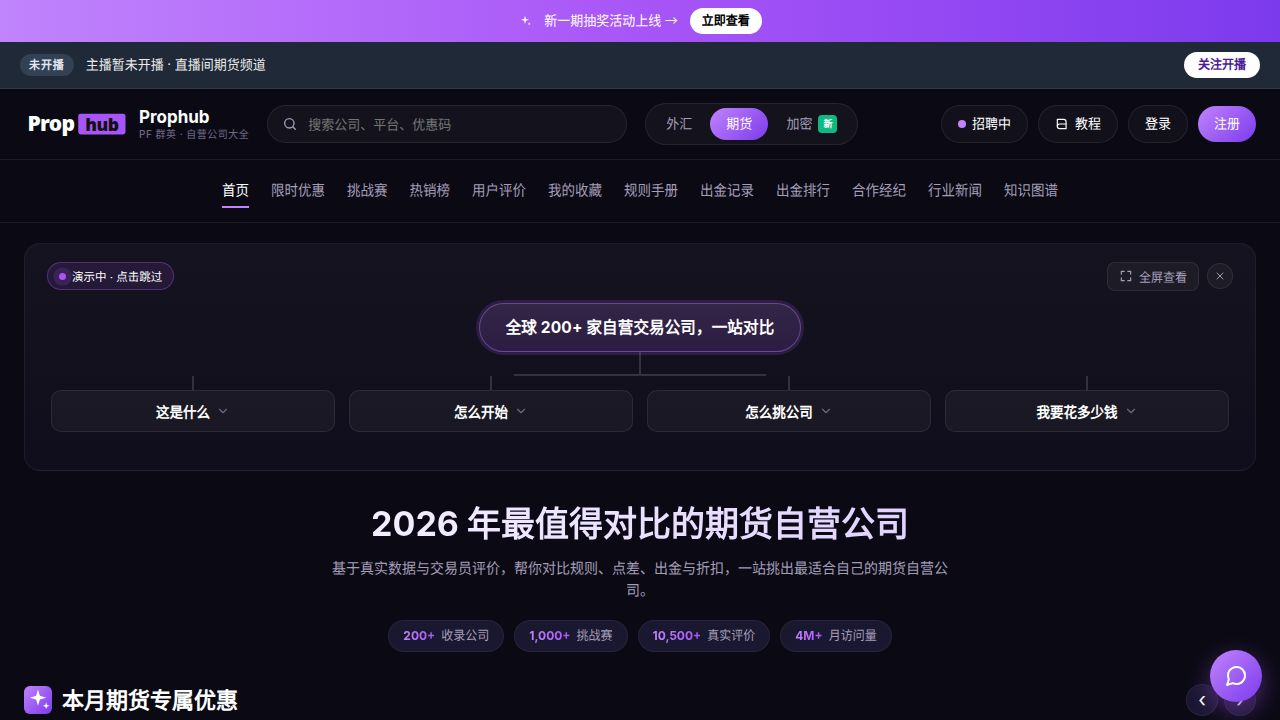
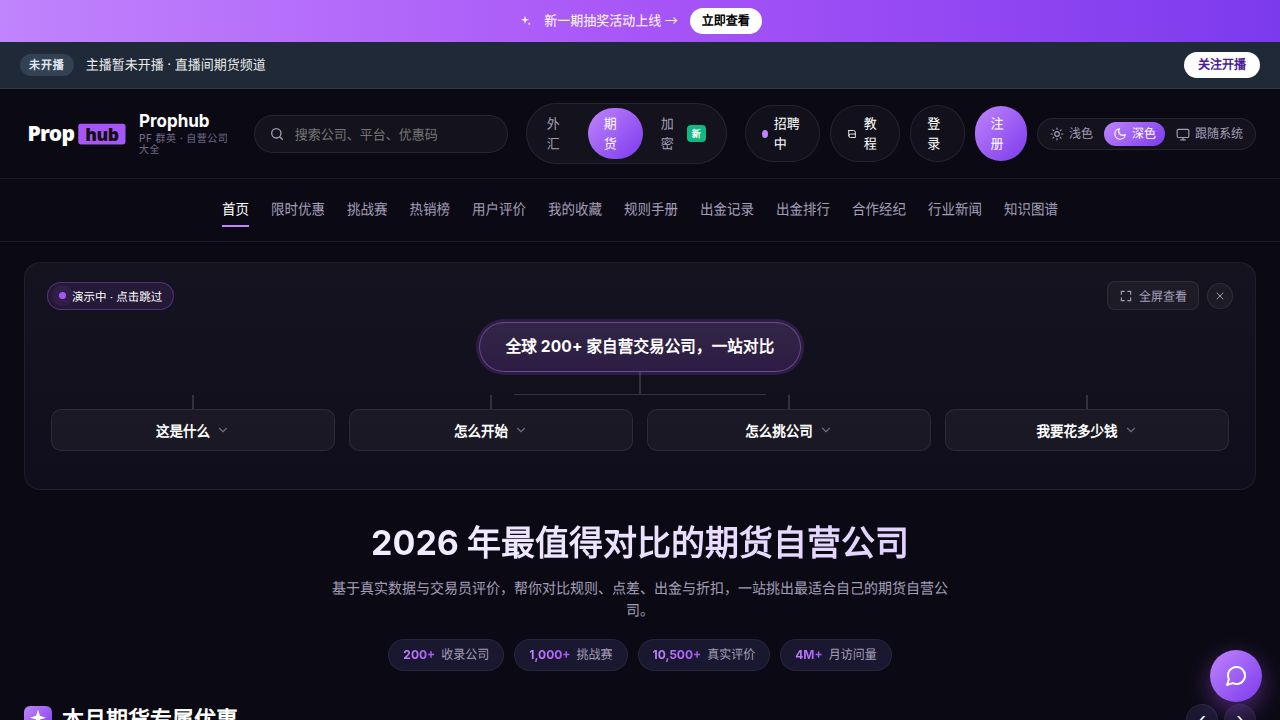
加浅色/深色主题切换开关
原任务 (Task #82): 站点目前只有深色主题，CSS 已为浅色模式留了变量。
需要在顶栏加用户可见的「浅色 / 深色 / 跟随系统」三选一开关，
持久化到 localStorage，并通过 document.documentElement 的 data-theme
属性生效；同时补齐 --bg / --card / --text 等变量的浅色取值。

主要改动:
- 新增 artifacts/propfirmmatch/src/hooks/useTheme.ts：三档主题状态、
  localStorage 持久化（key=`prophub-theme`）、监听系统配色变化、
  通过 documentElement data-theme 落地。
- 新增 artifacts/propfirmmatch/src/components/ThemeToggle.tsx：
  紧凑的 radio-group 风格三档按钮，带 SVG 图标与中文文案；
  在窄屏下隐藏文字、在 ≤640px 隐藏整组（保持原 header 紧凑度）。
- artifacts/propfirmmatch/src/components/Layout.tsx：在 header-right
  右侧（注册按钮后）挂入 <ThemeToggle />。
- artifacts/propfirmmatch/index.html：在 #root 之前内联一段同步脚本，
  在 React 加载前就根据 localStorage / prefers-color-scheme 设置好
  data-theme，避免主题闪烁 (FOUC)。
- artifacts/propfirmmatch/src/index.css：追加 .theme-toggle 样式
  与完整的 :root[data-theme="light"] 调色板（--bg/--card/--text 等），
  并对若干硬编码深色面板（header / firms-table sticky 列 / drawer /
  footer / hero 渐变标题 / top-bar 等）补浅色覆盖，保证 WCAG AA
  对比度。原有的 promo 徽章浅色块保持不变。

验证:
- 首页与「挑战赛」长表格在浅色 / 深色两种主题下均做了截图视觉检查，
  文字、价格、表头、按钮在两种主题下均清晰可读。
- 切换按钮在 header 中表现正确，激活态用品牌渐变高亮。

未做 / 备注:
- 仅 Web 端实现；手机 App 未同步（已作为 follow-up 提交）。
- CSS 仍有少量 rgba(255,255,255, X) 半透明叠加未抽到主题变量，
  当前依赖末尾的 [data-theme="light"] 覆盖段处理可见面板，
  彻底重构留作 tech debt follow-up。

Replit-Task-Id: 492500ab-f7e5-4160-9fa3-53a571ae3a2a

diff --git a/artifacts/propfirmmatch/src/index.css b/artifacts/propfirmmatch/src/index.css
@@ -26,13 +26,10 @@
   --promo-pill-code: rgba(255,255,255,0.92);
 }
 
-/* Light-theme overrides for the promo badge. Activated ONLY by an explicit
-   [data-theme="light"] attribute on the root. We deliberately do NOT key off
-   `prefers-color-scheme` here: the rest of the page is still dark-only, so
-   flipping promo tokens on OS preference alone would put dark-purple text on
-   the existing dark background and tank contrast. Once a full light palette
-   exists for --bg/--card/--text, the page can opt in by setting
-   <html data-theme="light"> and these tokens will follow. */
+/* Promo badge tokens for the light theme.
+   The full light palette (--bg / --card / --text, etc.) lives in the
+   consolidated [data-theme="light"] block at the bottom of this file —
+   activated by the ThemeToggle component writing data-theme on <html>. */
 :root[data-theme="light"] {
   --promo-accent: #6b21a8;
   --promo-accent-strong: #581c87;
@@ -3863,3 +3860,153 @@ button { font-family: inherit; cursor: pointer; border: none; background: none; 
 }
 
 .kg-empty { color: var(--text-muted); padding: 40px; text-align: center; }
+
+/* ============== Theme toggle (header) ============== */
+.theme-toggle {
+  display: inline-flex;
+  align-items: center;
+  background: rgba(255,255,255,0.04);
+  border: 1px solid var(--border);
+  border-radius: 999px;
+  padding: 3px;
+  gap: 2px;
+}
+.theme-toggle-btn {
+  display: inline-flex;
+  align-items: center;
+  gap: 5px;
+  padding: 5px 9px;
+  border-radius: 999px;
+  background: transparent;
+  color: var(--text-dim);
+  font-size: 12px;
+  font-weight: 500;
+  line-height: 1;
+  cursor: pointer;
+  transition: background .15s, color .15s;
+}
+.theme-toggle-btn:hover { color: var(--text); }
+.theme-toggle-btn.is-active {
+  background: var(--gradient-pp-2);
+  color: #fff;
+}
+.theme-toggle-label { white-space: nowrap; }
+@media (max-width: 1100px) {
+  .theme-toggle-label { display: none; }
+  .theme-toggle-btn { padding: 6px; }
+}
+@media (max-width: 640px) {
+  .theme-toggle { display: none; }
+}
+
+/* ============== Light theme palette ============== */
+:root[data-theme="light"] {
+  --bg: #f6f5fb;
+  --bg-2: #ffffff;
+  --card: #ffffffcc;
+  --card-2: #ffffff;
+  --card-border: rgba(15,12,40,0.08);
+  --border: rgba(15,12,40,0.10);
+  --text: #1a1535;
+  --text-dim: #4b4566;
+  --text-muted: #6b6688;
+  --orange: #7c3aed;
+  --orange-2: #6d28d9;
+  --purple: #7c3aed;
+  --purple-2: #6d28d9;
+  --green: #047857;
+  --gradient-pp: linear-gradient(90deg, #7c3aed 0%, #6d28d9 50%, #5b21b6 100%);
+  --gradient-pp-2: linear-gradient(135deg, #7c3aed 0%, #5b21b6 100%);
+}
+
+/* Overlays / hard-coded dark surfaces re-tinted for light mode */
+:root[data-theme="light"] .header,
+:root[data-theme="light"] .subnav,
+:root[data-theme="light"] .cat-tabs-mobile {
+  background: #ffffff;
+}
+:root[data-theme="light"] .search,
+:root[data-theme="light"] .tabs-pill,
+:root[data-theme="light"] .btn-pill,
+:root[data-theme="light"] .filter-pill,
+:root[data-theme="light"] .theme-toggle,
+:root[data-theme="light"] .offers-nav-btn {
+  background: #f0eef7;
+}
+:root[data-theme="light"] .btn-pill.primary,
+:root[data-theme="light"] .tabs-pill .tab.active,
+:root[data-theme="light"] .filter-pill.active,
+:root[data-theme="light"] .theme-toggle-btn.is-active {
+  background: var(--gradient-pp-2);
+  color: #fff;
+}
+:root[data-theme="light"] .firms-table .firm-col,
+:root[data-theme="light"] .firms-table thead th:first-child,
+:root[data-theme="light"] .firms-table .firm-col-2,
+:root[data-theme="light"] .firms-table thead th.firm-col-2 {
+  background: #ffffff;
+}
+:root[data-theme="light"] .firms-table tbody tr:hover .firm-col {
+  background: #f4f1fb;
+}
+:root[data-theme="light"] .firms-table thead th,
+:root[data-theme="light"] .firms-table-mobile thead th {
+  background: #faf9fd;
+}
+:root[data-theme="light"] .firms-table tbody tr:hover {
+  background: rgba(124,58,237,0.04);
+}
+:root[data-theme="light"] .firm-logo-sm { background: #ffffff; }
+:root[data-theme="light"] .table-wrap::-webkit-scrollbar-thumb,
+:root[data-theme="light"] .firms-mobile-right::-webkit-scrollbar-thumb,
+:root[data-theme="light"] .firm-filter-body::-webkit-scrollbar-thumb {
+  background: rgba(15,12,40,0.18);
+}
+:root[data-theme="light"] .onb,
+:root[data-theme="light"] .news-modal,
+:root[data-theme="light"] .side-drawer {
+  background: #ffffff;
+  border-color: var(--card-border);
+}
+:root[data-theme="light"] .drawer-mask,
+:root[data-theme="light"] .news-modal-mask {
+  background: rgba(15,12,40,0.45);
+}
+:root[data-theme="light"] .top-bar,
+:root[data-theme="light"] .top-bar a,
+:root[data-theme="light"] .top-bar .check-now {
+  color: #ffffff;
+}
+:root[data-theme="light"] .top-bar .check-now {
+  background: #ffffff;
+  color: #4c1d95;
+}
+:root[data-theme="light"] .site-footer {
+  background: #ffffff;
+  border-top: 1px solid var(--card-border);
+}
+:root[data-theme="light"] .pfm-hero-title {
+  background: linear-gradient(90deg, #1a1535 0%, #6d28d9 100%);
+  -webkit-background-clip: text; background-clip: text;
+  color: transparent;
+}
+:root[data-theme="light"] .offer-card,
+:root[data-theme="light"] .popular-card,
+:root[data-theme="light"] .review-row-card,
+:root[data-theme="light"] .news-card,
+:root[data-theme="light"] .challenge-card,
+:root[data-theme="light"] .table-wrap,
+:root[data-theme="light"] .firms-mobile,
+:root[data-theme="light"] .firms-mobile-empty,
+:root[data-theme="light"] .firms-mobile-left {
+  background: #ffffff;
+}
+:root[data-theme="light"] body {
+  background: var(--bg);
+  color: var(--text);
+}
+
+/* Ensure ThemeToggle stays visible inside the mobile side drawer */
+.side-drawer .theme-toggle { display: inline-flex !important; }
+.side-drawer .theme-toggle .theme-toggle-label { display: inline !important; }
+.side-drawer .theme-toggle .theme-toggle-btn { padding: 6px 10px !important; }

diff --git a/artifacts/propfirmmatch/src/hooks/useTheme.ts b/artifacts/propfirmmatch/src/hooks/useTheme.ts
@@ -1,0 +1,83 @@
+import { useEffect, useState, useCallback } from "react";
+
+export type ThemeMode = "light" | "dark" | "system";
+
+const STORAGE_KEY = "prophub-theme";
+
+export function getStoredTheme(): ThemeMode {
+  if (typeof window === "undefined") return "dark";
+  const raw = window.localStorage.getItem(STORAGE_KEY);
+  if (raw === "light" || raw === "dark" || raw === "system") return raw;
+  return "dark";
+}
+
+export function resolveTheme(mode: ThemeMode): "light" | "dark" {
+  if (mode === "system") {
+    if (typeof window === "undefined") return "dark";
+    return window.matchMedia("(prefers-color-scheme: light)").matches ? "light" : "dark";
+  }
+  return mode;
+}
+
+export function applyTheme(mode: ThemeMode) {
+  if (typeof document === "undefined") return;
+  const resolved = resolveTheme(mode);
+  document.documentElement.setAttribute("data-theme", resolved);
+}
+
+const THEME_EVENT = "prophub-theme-change";
+
+export function useTheme() {
+  const [mode, setModeState] = useState<ThemeMode>(() => getStoredTheme());
+
+  const setMode = useCallback((next: ThemeMode) => {
+    setModeState(next);
+    try {
+      window.localStorage.setItem(STORAGE_KEY, next);
+    } catch {}
+    applyTheme(next);
+    try {
+      window.dispatchEvent(new CustomEvent<ThemeMode>(THEME_EVENT, { detail: next }));
+    } catch {}
+  }, []);
+
+  useEffect(() => {
+    applyTheme(mode);
+    const onExternalChange = (e: Event) => {
+      const next = (e as CustomEvent<ThemeMode>).detail;
+      if (next === "light" || next === "dark" || next === "system") {
+        setModeState(next);
+      }
+    };
+    const onStorage = (e: StorageEvent) => {
+      if (e.key !== STORAGE_KEY) return;
+      const next = e.newValue;
+      if (next === "light" || next === "dark" || next === "system") {
+        setModeState(next);
+      }
+    };
+    window.addEventListener(THEME_EVENT, onExternalChange);
+    window.addEventListener("storage", onStorage);
+
+    let cleanupMq: (() => void) | undefined;
+    if (mode === "system") {
+      const mq = window.matchMedia("(prefers-color-scheme: light)");
+      const handler = () => applyTheme("system");
+      if (mq.addEventListener) {
+        mq.addEventListener("change", handler);
+        cleanupMq = () => mq.removeEventListener("change", handler);
+      } else if ((mq as MediaQueryList & { addListener?: (cb: () => void) => void }).addListener) {
+        (mq as MediaQueryList & { addListener: (cb: () => void) => void }).addListener(handler);
+        cleanupMq = () => (mq as MediaQueryList & { removeListener: (cb: () => void) => void }).removeListener(handler);
+      }
+    }
+
+    return () => {
+      window.removeEventListener(THEME_EVENT, onExternalChange);
+      window.removeEventListener("storage", onStorage);
+      cleanupMq?.();
+    };
+  }, [mode]);
+
+  return { mode, setMode };
+}

diff --git a/artifacts/propfirmmatch/src/components/ThemeToggle.tsx b/artifacts/propfirmmatch/src/components/ThemeToggle.tsx
@@ -1,0 +1,60 @@
+import type { ReactNode } from "react";
+import { useTheme, type ThemeMode } from "../hooks/useTheme";
+
+const OPTIONS: { value: ThemeMode; label: string; icon: ReactNode; title: string }[] = [
+  {
+    value: "light",
+    label: "浅色",
+    title: "浅色模式",
+    icon: (
+      <svg width="14" height="14" viewBox="0 0 24 24" fill="none" stroke="currentColor" strokeWidth="2" strokeLinecap="round" strokeLinejoin="round" aria-hidden="true">
+        <circle cx="12" cy="12" r="4" />
+        <path d="M12 2v2M12 20v2M4.93 4.93l1.41 1.41M17.66 17.66l1.41 1.41M2 12h2M20 12h2M4.93 19.07l1.41-1.41M17.66 6.34l1.41-1.41" />
+      </svg>
+    ),
+  },
+  {
+    value: "dark",
+    label: "深色",
+    title: "深色模式",
+    icon: (
+      <svg width="14" height="14" viewBox="0 0 24 24" fill="none" stroke="currentColor" strokeWidth="2" strokeLinecap="round" strokeLinejoin="round" aria-hidden="true">
+        <path d="M21 12.79A9 9 0 1 1 11.21 3 7 7 0 0 0 21 12.79z" />
+      </svg>
+    ),
+  },
+  {
+    value: "system",
+    label: "跟随系统",
+    title: "跟随系统",
+    icon: (
+      <svg width="14" height="14" viewBox="0 0 24 24" fill="none" stroke="currentColor" strokeWidth="2" strokeLinecap="round" strokeLinejoin="round" aria-hidden="true">
+        <rect x="2" y="4" width="20" height="14" rx="2" />
+        <path d="M8 22h8M12 18v4" />
+      </svg>
+    ),
+  },
+];
+
+export default function ThemeToggle() {
+  const { mode, setMode } = useTheme();
+  return (
+    <div className="theme-toggle" role="radiogroup" aria-label="主题模式">
+      {OPTIONS.map(opt => (
+        <button
+          key={opt.value}
+          type="button"
+          role="radio"
+          aria-checked={mode === opt.value}
+          aria-label={opt.title}
+          title={opt.title}
+          className={`theme-toggle-btn ${mode === opt.value ? "is-active" : ""}`}
+          onClick={() => setMode(opt.value)}
+        >
+          {opt.icon}
+          <span className="theme-toggle-label">{opt.label}</span>
+        </button>
+      ))}
+    </div>
+  );
+}

diff --git a/artifacts/propfirmmatch/src/components/Layout.tsx b/artifacts/propfirmmatch/src/components/Layout.tsx
@@ -6,6 +6,7 @@ import {
   ChartIcon, BitcoinIcon,
 } from "./icons";
 import SupportWidget from "./SupportWidget";
+import ThemeToggle from "./ThemeToggle";
 import { useBilibiliLiveStatus } from "../hooks/useBilibiliLiveStatus";
 
 const BILIBILI_ROOM_ID = "1874453448";
@@ -157,6 +158,7 @@ export default function Layout({ children }: { children: ReactNode }) {
           <Link className="btn-pill hide-on-mobile" href="/tutorials"><BookIcon size={14} /> 教程</Link>
           <Link href="/sign-in" className="btn-pill hide-on-mobile">登录</Link>
           <Link href="/sign-up" className="btn-pill primary">注册</Link>
+          <ThemeToggle />
           <button
             type="button"
             className="header-drawer-toggle"
@@ -201,6 +203,8 @@ export default function Layout({ children }: { children: ReactNode }) {
             <Link className="drawer-link" href="/forex/all-prop-firms">外汇</Link>
             <Link className="drawer-link" href="/futures/all-prop-firms">期货</Link>
             <Link className="drawer-link" href="/crypto/all-prop-firms">加密 <span className="badge-new" style={{ marginLeft: 4 }}>新</span></Link>
+            <div className="drawer-section">主题</div>
+            <div style={{ padding: "8px 16px" }}><ThemeToggle /></div>
           </aside>
         </>
       )}

diff --git a/artifacts/propfirmmatch/index.html b/artifacts/propfirmmatch/index.html
@@ -18,6 +18,21 @@
     <link href="https://fonts.googleapis.com/css2?family=Inter:wght@400;500;600;700&display=swap" rel="stylesheet">
   </head>
   <body>
+    <script>
+      (function () {
+        try {
+          var t = localStorage.getItem('prophub-theme');
+          var resolved = t === 'light' ? 'light'
+            : t === 'dark' ? 'dark'
+            : t === 'system'
+              ? (window.matchMedia('(prefers-color-scheme: light)').matches ? 'light' : 'dark')
+              : 'dark';
+          document.documentElement.setAttribute('data-theme', resolved);
+        } catch (e) {
+          document.documentElement.setAttribute('data-theme', 'dark');
+        }
+      })();
+    </script>
     <div id="root"></div>
     <script type="module" src="/src/main.tsx"></script>
   </body>
